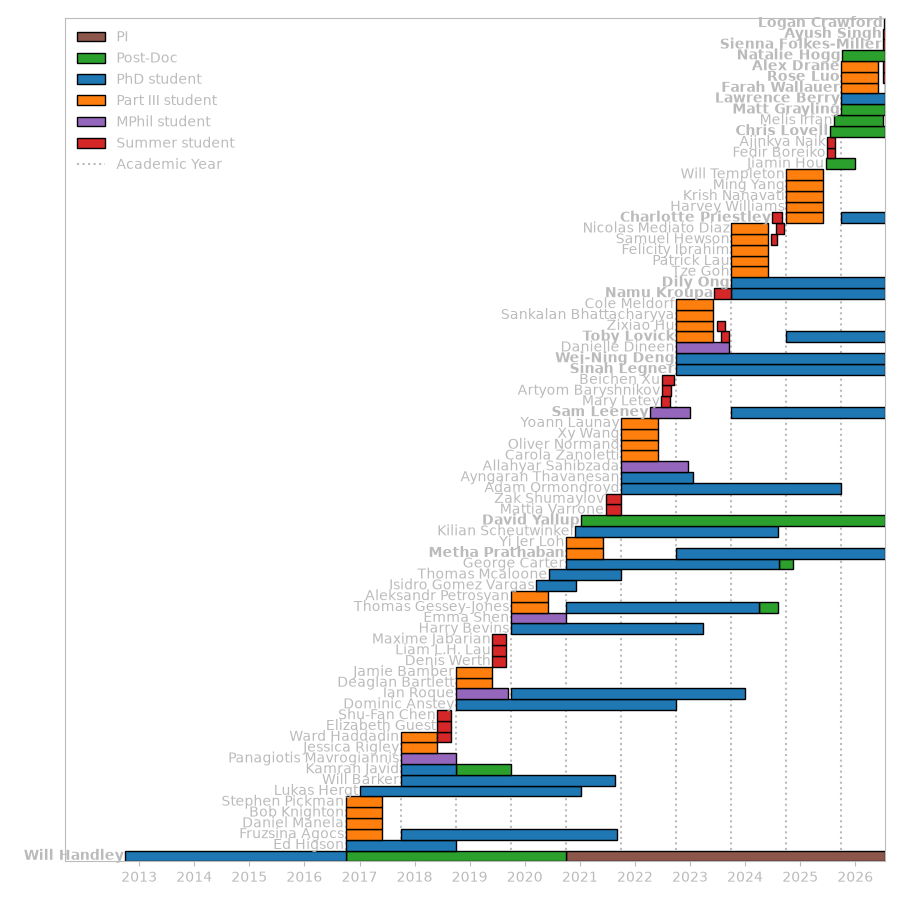
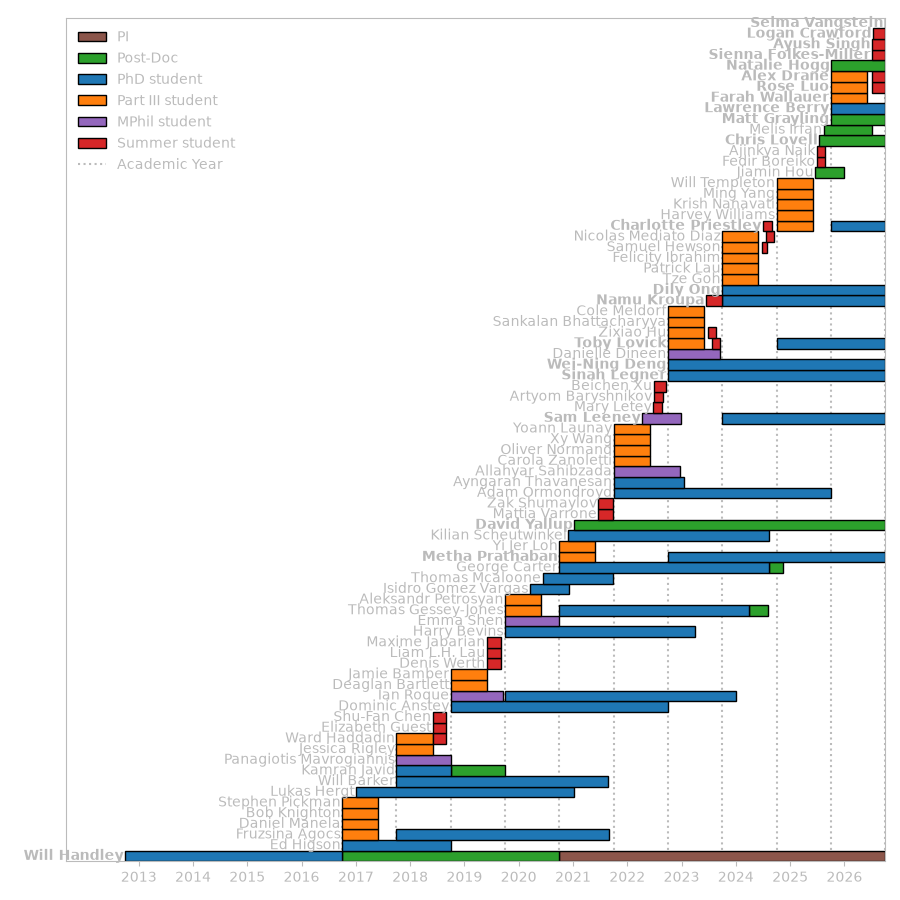
Add Selma Vangstein to group

diff --git a/assets/group/group.html b/assets/group/group.html
@@ -204,6 +204,19 @@
   <h1>PhD students</h1>
   <div class="grid">
     <div class="grid-item">
+      <img src="/assets/images/user.png" />
+    </div>
+    <div class="grid-item">
+      <p>
+        <font size="+2">Selma Vangstein</font>
+      </p>
+      <p>
+        <ul>
+          <li>PhD student from Oct 2026<ul><li>co-supervised with <a href="https://www.phy.cam.ac.uk/directory/hobsonm">Mike Hobson</a></li></ul></li>
+        </ul>
+      </p>
+    </div>
+    <div class="grid-item">
       <img src="/assets/group/images/lawrence_berry.jpg" />
     </div>
     <div class="grid-item">
